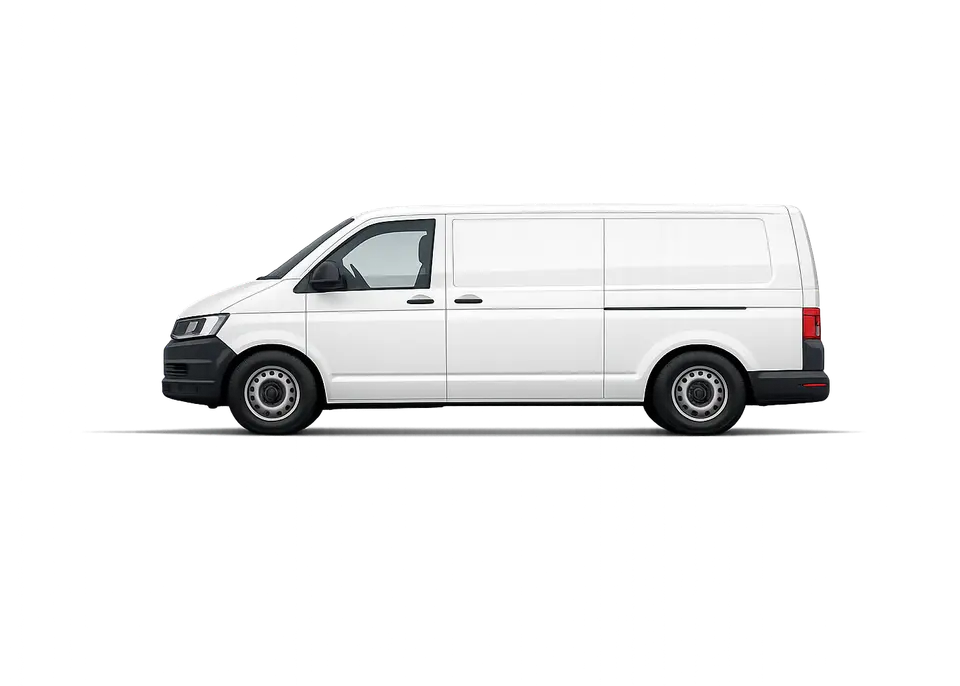
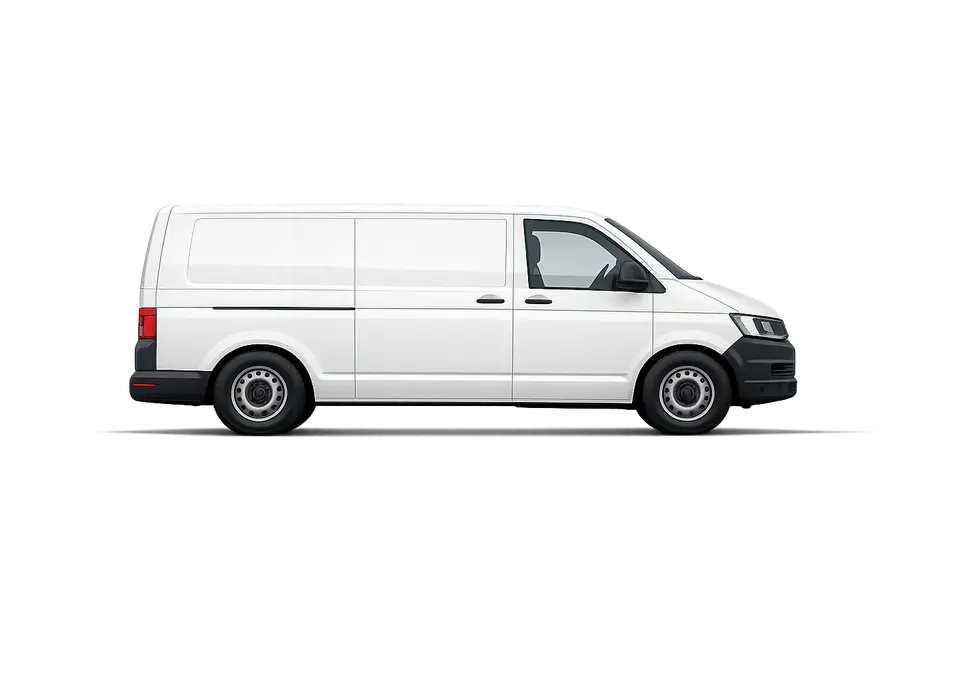
fix: correct PHY-FOR-HYB-001 semantics — flip van orientation, re-anchor normal/weight, more resultant spacing, remove POC note
Human visual/scientific review found real pedagogical issues in the
recalibrated hybrid (d6a7ece):

1. Van faced left, making driving force (right) read as pulling from
   the rear and drag (left) read as pulling from the front - reversed
   from what's physically sensible. Fixed by horizontally flopping the
   already-approved asset (sharp .flop(), a deterministic transform of
   the same file, not a new generation) so the van faces right,
   matching driving-force-right/drag-left. Re-measured the flipped
   file's actual alpha footprint directly rather than computing the
   mirror by hand.
2. Normal contact force was anchored at the roof (inherited from the
   family's abstract "arrow from nearest edge" convention), which
   reads as physically backwards next to a real illustration. Now
   anchored at the ground/tyre-contact line, pointing up into the
   vehicle.
3. Weight was anchored at the van's bottom edge. Now anchored at the
   vehicle's own vertical centre (body/mass region), pointing down.
   Both forces keep the exact same length (38 units, was 52) since
   both are still 1200 N - equal magnitude, equal length, preserved.
4. Resultant zone spacing increased (divider-to-arrow 35->45,
   arrow-to-label 55->65, label-to-box 75->85 units) per the "slightly
   cramped" finding; viewBox height grown 486->500 to fit.
5. Removed the italic "(Hybrid POC...)" note from the student-facing
   figcaption - provenance now lives only in docs/visual-requests/ and
[…]

Changed region(s): [[0.125, 0.3061, 0.875, 0.6429]]

diff --git a/teaching-lessons/physics/forces-and-motion-resultant-forces-free-body-diagrams.html b/teaching-lessons/physics/forces-and-motion-resultant-forces-free-body-diagrams.html
@@ -288,21 +288,30 @@
   .ile-diagram-figure svg{ width:100%; height:auto; max-width:720px; }
   .ile-diagram-figure figcaption{ font-size:.82rem; color: var(--text-muted); margin-top:10px; line-height:1.5; max-width:56ch; margin-left:auto; margin-right:auto; }
 
-  /* Hybrid diagram POC (PHY-FOR-HYB-001), recalibration pass. The
-     deterministic overlay's viewBox and every force arrow/label
-     position are computed from the approved asset's own measured
-     alpha-channel footprint (van silhouette: x 9.58%-89.48%, y
-     29.45%-63.56% of the 960x686 source), not the old placeholder
-     box. max-width is widened from the lesson's shared 720px (the
-     label text this diagram needs no longer fits at that scale) to
-     848px -- the content card's actual available inner width -- with
-     the SVG's own text sizes raised 16->18 to compensate, keeping
-     effective on-screen text size close to every other diagram in
-     this lesson (~17px). See docs/visual-requests/PHY-FOR-HYB-001.md. */
+  /* Hybrid diagram (PHY-FOR-HYB-001). The asset itself is a
+     horizontally-flopped copy of the approved illustration (van now
+     faces right, matching "driving force" acting right / "drag"
+     acting left) -- a deterministic transform of the same approved
+     asset, not a new generation. The overlay's viewBox and every
+     force arrow/label position are computed from that asset's own
+     measured alpha-channel footprint (van silhouette: x 10.31%-90.21%,
+     y 29.45%-63.56% of the 960x686 file), not an abstract placeholder
+     box. Normal contact force and weight are deliberately anchored at
+     the vehicle's tyre/ground line and body-centre respectively
+     (not the family's usual "top/bottom edge" convention) -- a
+     considered exception for this one contextual figure, since a
+     realistic illustration makes the abstract "arrow from the
+     nearest edge" convention read as physically misleading in a way
+     it doesn't for an abstract box. max-width is widened from the
+     lesson's shared 720px (the label text this diagram needs no
+     longer fits at that scale) to 848px -- the content card's actual
+     available inner width -- with the SVG's own text sizes raised
+     16->18 to compensate, keeping effective on-screen text size close
+     to every other diagram in this lesson (~17px). See
+     docs/visual-requests/PHY-FOR-HYB-001.md. */
   .ile-hybrid-stage{ position:relative; max-width:848px; margin:0 auto; }
-  .ile-hybrid-stage img{ position:absolute; left:15.667%; top:0.311%; width:55.045%; height:77.203%; z-index:1; }
+  .ile-hybrid-stage img{ position:absolute; left:15.267%; top:0.302%; width:55.045%; height:75.042%; z-index:1; }
   .ile-hybrid-stage svg{ position:relative; z-index:2; max-width:none; width:100%; height:auto; }
-  .ile-hybrid-note{ display:block; margin-top:4px; font-size:.72rem; color: var(--text-soft); font-style:italic; }
 
   .ile-worked{ border:1px solid var(--border); border-radius: var(--radius-sm); padding:16px; margin-bottom:14px; background: var(--bg-card); }
   .ile-worked h3{ font-size:.98rem; margin-bottom:8px; }
@@ -813,9 +822,9 @@
           <figure class="ile-diagram-figure ile-reveal">
             <div class="ile-hybrid-stage">
               <img src="https://staging.inspireacademic.org/assets/images/physics/diagrams/forces/PHY-FOR-HYB-001.webp" alt="Side-on illustration of a delivery van, shown as the real-world context for the force diagram overlaid on top of it." loading="lazy" width="960" height="686">
-              <svg viewBox="-410 -176 955 486" role="img" aria-labelledby="ile-f5-title" aria-describedby="ile-f5-desc"><title id="ile-f5-title">Free-body diagram: a delivery van with four forces acting</title><desc id="ile-f5-desc">A delivery van has four forces acting on it: an 800 newton driving force to the right, a 300 newton drag force to the left, a 1200 newton weight downward, and a 1200 newton normal contact force upward, each drawn as an arrow starting from the relevant edge of the van. Horizontally, the resultant force is 500 newtons to the right. Vertically, the resultant force is 0 newtons — the vertical forces are balanced. The two resultants are shown side by side as two separate conclusions, never merged into one diagonal arrow. Drawn to scale, with separate horizontal and vertical scales.</desc><defs><marker id="ileF5r" markerWidth="8.25" markerHeight="6.05" refX="8.25" refY="3.03" orient="auto"><path d="M0,0 L8.25,3.03 L0,6.05 z" fill="var(--diagram-ink)"/></marker><marker id="ileF5l" markerWidth="8.25" markerHeight="6.05" refX="8.25" refY="3.03" orient="auto"><path d="M0,0 L8.25,3.03 L0,6.05 z" fill="var(--diagram-ink)"/></marker><marker id="ileF5u" markerWidth="8.25" markerHeight="6.05" refX="8.25" refY="3.03" orient="auto"><path d="M0,0 L8.25,3.03 L0,6.05 z" fill="var(--diagram-ink)"/></marker><marker id="ileF5d" markerWidth="8.25" markerHeight="6.05" refX="8.25" refY="3.03" orient="auto"><path d="M0,0 L8.25,3.03 L0,6.05 z" fill="var(--diagram-ink)"/></marker><marker id="ileF5res" markerWidth="12" markerHeight="8.8" refX="12" refY="4.4" orient="auto"><path d="M0,0 L12,4.4 L0,8.8 z" fill="var(--gold-ink)"/></marker></defs><line x1="-300" y1="84" x2="380" y2="84" stroke="var(--diagram-axis)" stroke-width="1.25" stroke-linecap="round"/><line x1="210" y1="0" x2="266" y2="0" stroke="var(--diagram-ink)" stroke-width="2.75" stroke-linecap="round" marker-end="url(#ileF5r)"/><text x="284" y="-6" font-family="var(--font-body)" font-size="18" font-weight="500" fill="var(--diagram-ink)" text-anchor="start">driving force = 800 N</text><line x1="-210" y1="0" x2="-231" y2="0" stroke="var(--diagram-ink)" stroke-width="2.75" stroke-linecap="round" marker-end="url(#ileF5l)"/><text x="-249" y="-6" font-family="var(--font-body)" font-size="18" font-weight="500" fill="var(--diagram-ink)" text-anchor="end">drag = 300 N</text><line x1="0" y1="-64" x2="0" y2="-116" stroke="var(--diagram-ink)" stroke-width="2.75" stroke-linecap="round" marker-end="url(#ileF5u)"/><text x="0" y="-136" font-family="var(--font-body)" font-size="18" font-weight="500" fill="var(--diagram-ink)" text-anchor="middle">normal contact force = 1200 N</text><line x1="0" y1="64" x2="0" y2="116" stroke="var(--diagram-ink)" stroke-width="2.75" stroke-linecap="round" marker-end="url(#ileF5d)"/><text x="0" y="154" font-family="var(--font-body)" font-size="18" font-weight="500" fill="var(--diagram-ink)" text-anchor="middle">weight = 1200 N</text><line x1="-300" y1="191" x2="380" y2="191" stroke="var(--diagram-ink-muted)" stroke-width="1" stroke-dasharray="2 4" opacity="0.4"/><line x1="-24" y1="226" x2="21" y2="226" stroke="var(--gold-ink)" stroke-width="4" stroke-linecap="round" marker-end="url(#ileF5res)"/><text x="0" y="246" font-family="var(--font-body)" font-size="18" font-weight="700" fill="var(--gold-ink)" text-anchor="middle">horizontal resultant = 500 N right</text><rect x="-165.5" y="266" width="331" height="22" rx="11" fill="var(--bg-card)" stroke="var(--gold-ink)" stroke-width="1.5"/><text x="0" y="282" font-family="var(--font-body)" font-size="15" font-weight="700" fill="var(--gold-ink)" text-anchor="middle">vertical resultant = 0 N — balanced</text></svg>
+              <svg viewBox="-410 -176 955 500" role="img" aria-labelledby="ile-f5-title" aria-describedby="ile-f5-desc"><title id="ile-f5-title">Free-body diagram: a delivery van with four forces acting</title><desc id="ile-f5-desc">A delivery van, facing right, has four forces acting on it: an 800 newton driving force to the right acting from the front, a 300 newton drag force to the left acting from the rear, a 1200 newton normal contact force upward acting from the road through the tyres, and a 1200 newton weight downward acting from the vehicle's body. Horizontally, the resultant force is 500 newtons to the right. Vertically, the resultant force is 0 newtons — the vertical forces are balanced. The two resultants are shown side by side as two separate conclusions, never merged into one diagonal arrow. Drawn to scale, with separate horizontal and vertical scales.</desc><defs><marker id="ileF5r" markerWidth="8.25" markerHeight="6.05" refX="8.25" refY="3.03" orient="auto"><path d="M0,0 L8.25,3.03 L0,6.05 z" fill="var(--diagram-ink)"/></marker><marker id="ileF5l" markerWidth="8.25" markerHeight="6.05" refX="8.25" refY="3.03" orient="auto"><path d="M0,0 L8.25,3.03 L0,6.05 z" fill="var(--diagram-ink)"/></marker><marker id="ileF5u" markerWidth="8.25" markerHeight="6.05" refX="8.25" refY="3.03" orient="auto"><path d="M0,0 L8.25,3.03 L0,6.05 z" fill="var(--diagram-ink)"/></marker><marker id="ileF5d" markerWidth="8.25" markerHeight="6.05" refX="8.25" refY="3.03" orient="auto"><path d="M0,0 L8.25,3.03 L0,6.05 z" fill="var(--diagram-ink)"/></marker><marker id="ileF5res" markerWidth="12" markerHeight="8.8" refX="12" refY="4.4" orient="auto"><path d="M0,0 L12,4.4 L0,8.8 z" fill="var(--gold-ink)"/></marker></defs><line x1="-300" y1="84" x2="380" y2="84" stroke="var(--diagram-axis)" stroke-width="1.25" stroke-linecap="round"/><line x1="210" y1="0" x2="266" y2="0" stroke="var(--diagram-ink)" stroke-width="2.75" stroke-linecap="round" marker-end="url(#ileF5r)"/><text x="284" y="-6" font-family="var(--font-body)" font-size="18" font-weight="500" fill="var(--diagram-ink)" text-anchor="start">driving force = 800 N</text><line x1="-210" y1="0" x2="-231" y2="0" stroke="var(--diagram-ink)" stroke-width="2.75" stroke-linecap="round" marker-end="url(#ileF5l)"/><text x="-249" y="-6" font-family="var(--font-body)" font-size="18" font-weight="500" fill="var(--diagram-ink)" text-anchor="end">drag = 300 N</text><line x1="0" y1="84" x2="0" y2="46" stroke="var(--diagram-ink)" stroke-width="2.75" stroke-linecap="round" marker-end="url(#ileF5u)"/><text x="0" y="112" font-family="var(--font-body)" font-size="18" font-weight="500" fill="var(--diagram-ink)" text-anchor="middle">normal contact force = 1200 N</text><line x1="0" y1="0" x2="0" y2="38" stroke="var(--diagram-ink)" stroke-width="2.75" stroke-linecap="round" marker-end="url(#ileF5d)"/><text x="0" y="140" font-family="var(--font-body)" font-size="18" font-weight="500" fill="var(--diagram-ink)" text-anchor="middle">weight = 1200 N</text><line x1="-300" y1="191" x2="380" y2="191" stroke="var(--diagram-ink-muted)" stroke-width="1" stroke-dasharray="2 4" opacity="0.4"/><line x1="-24" y1="236" x2="21" y2="236" stroke="var(--gold-ink)" stroke-width="4" stroke-linecap="round" marker-end="url(#ileF5res)"/><text x="0" y="256" font-family="var(--font-body)" font-size="18" font-weight="700" fill="var(--gold-ink)" text-anchor="middle">horizontal resultant = 500 N right</text><rect x="-165.5" y="276" width="331" height="22" rx="11" fill="var(--bg-card)" stroke="var(--gold-ink)" stroke-width="1.5"/><text x="0" y="292" font-family="var(--font-body)" font-size="15" font-weight="700" fill="var(--gold-ink)" text-anchor="middle">vertical resultant = 0 N — balanced</text></svg>
             </div>
-            <figcaption><strong>5. A full multi-force diagram.</strong> A delivery van: four forces, two independent resultants — horizontal (500 N right) and vertical (0 N, balanced) — deliberately never merged into one diagonal arrow. <span class="ile-hybrid-note">(Hybrid POC, recalibrated: illustration is contextual only — every force value, arrow and resultant is deterministic, unchanged from the approved diagram; arrow origins are now calibrated to the illustration's own measured footprint.)</span></figcaption>
+            <figcaption><strong>5. A full multi-force diagram.</strong> A delivery van: four forces, two independent resultants — horizontal (500 N right) and vertical (0 N, balanced) — deliberately never merged into one diagonal arrow.</figcaption>
           </figure>
 
           <figure class="ile-diagram-figure ile-tier-higher-only ile-reveal" data-tier-block="3">
